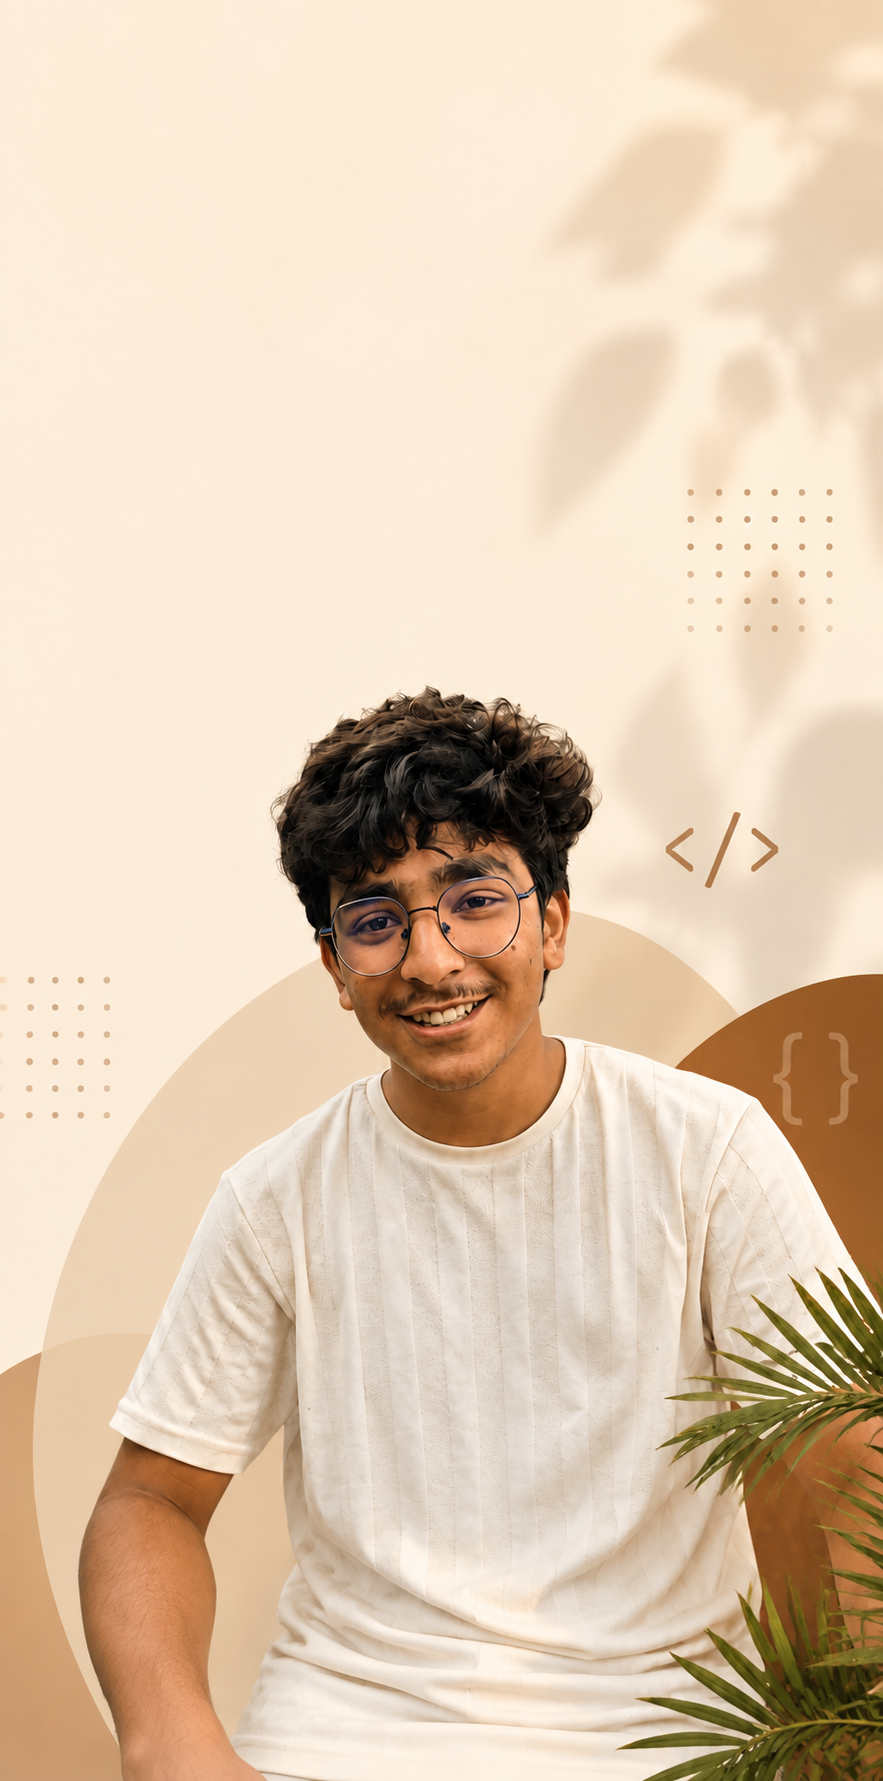
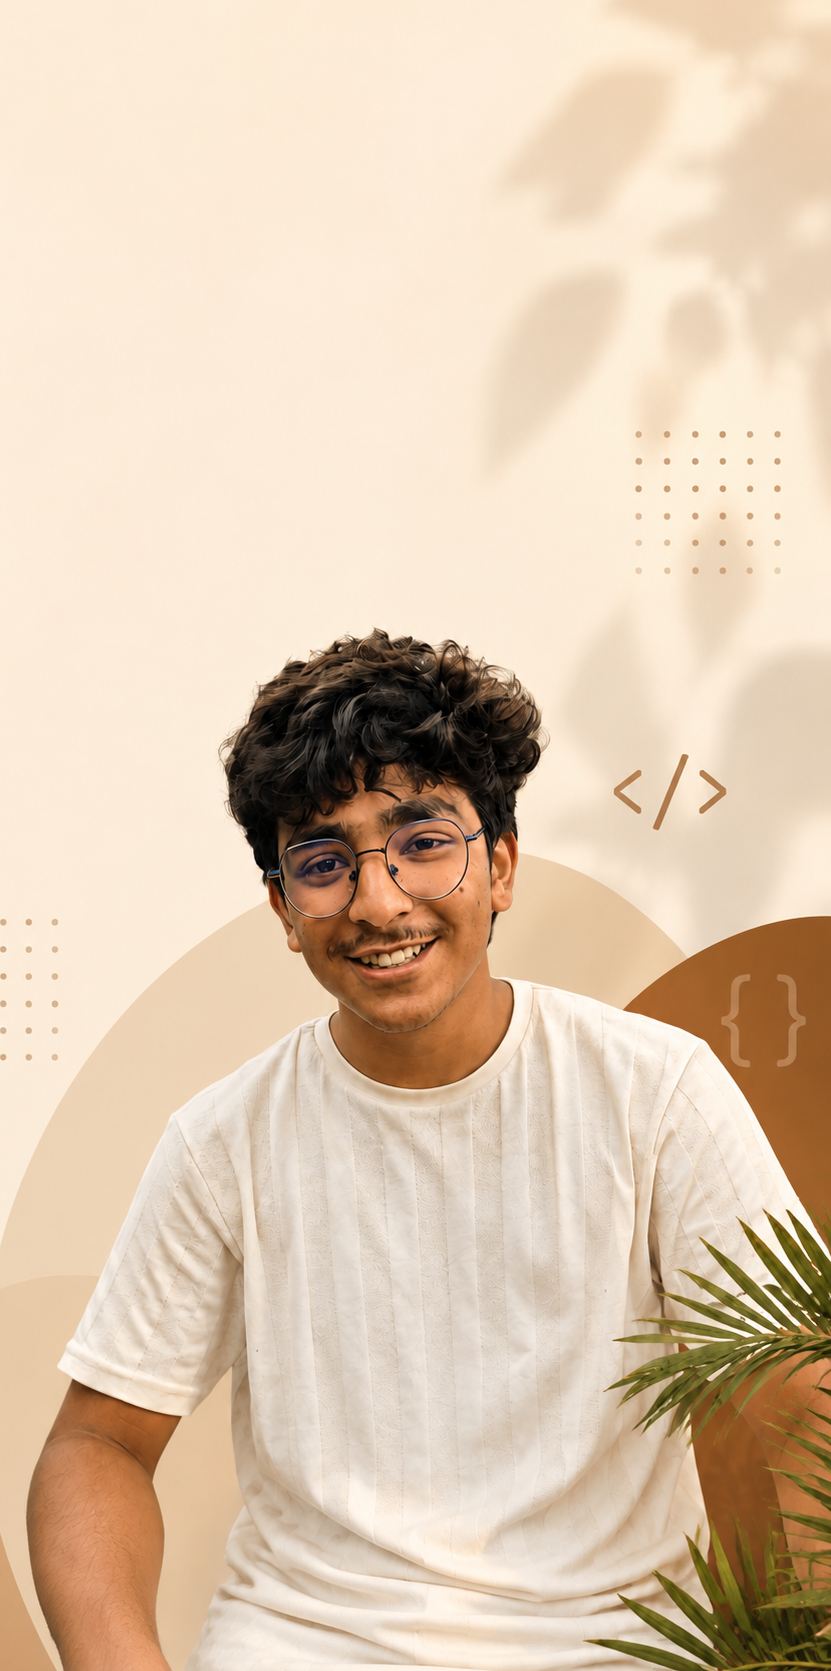
Updated portfolio

diff --git a/src/components/Home/Projects.jsx b/src/components/Home/Projects.jsx
@@ -1,38 +1,41 @@
 import React from "react";
 import Image from "next/image";
 
+
 const projects = [
   {
     title: "TriAxon Technology",
     description:
-      "A full-stack task management app with user authentication, tasks, and dashboard.",
+      "A modern business website designed to showcase TriAxon Technology’s services, solutions, and digital presence with a responsive and professional interface.",
     tags: ["HTML", "Tailwindcss", "React.js"],
     image:
-      "/Triaxon_tech.png", // Replace with your project preview image
+      "/Triaxon_tech.png",
     githubUrl: "https://github.com",
     liveUrl: "https://tri-axon.vercel.app",
   },
   {
     title: "Crochet Alif",
     description:
-      "Responsive e-commerce website with product listing, cart and checkout functionality.",
+      "A creative e-commerce website for showcasing handmade crochet products, featuring a clean product-focused design and responsive shopping experience.",
     tags: ["HTML", "Tailwindcss", "React.js"],
     image:
-      "/crocket_by_alif.png", // Replace with your project preview image
+      "/crocket_by_alif.png",
     githubUrl: "https://github.com",
     liveUrl: "https://crochet-alif.vercel.app",
   },
   {
     title: "Ultimate Gaming Zone",
     description:
-      "A minimal blog website to share thoughts and articles. Built with React and Markdown.",
+      "A gaming-focused website built to create an engaging digital experience with a modern interface, interactive sections, and responsive design.",
     tags: ["HTML", "Tailwindcss", "React.js"],
     image:
-      "/Gaming_Zone.png", // Replace with your project preview image
+      "/Gaming_Zone.png",
     githubUrl: "https://github.com",
     liveUrl: "https://ultimate-gam-zone.vercel.app",
   },
 ];
+
+
 
 export default function Projects() {
   return (

diff --git a/src/components/Layout/Header.jsx b/src/components/Layout/Header.jsx
@@ -10,7 +10,6 @@ export default function Header() {
     { name: "About", href: "#about" },
     { name: "Skills", href: "#skills" },
     { name: "Projects", href: "#projects" },
-    { name: "Experience", href: "#experience" },
     { name: "Contact", href: "#contact" },
   ];
 
